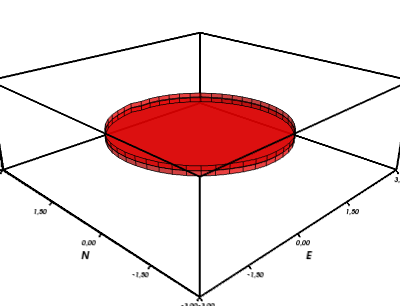
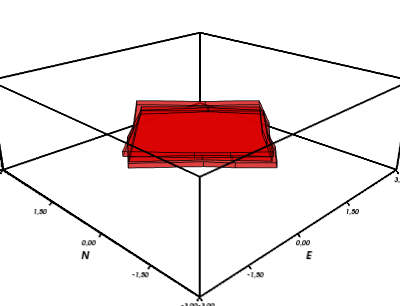
test for different number of prisms between foward modeling and inversion

Changed region(s): [[0.24, 0.2941, 0.75, 0.5882]]

diff --git a/code/mag_polyprism_functions.py b/code/mag_polyprism_functions.py
@@ -573,7 +573,7 @@ def Jacobian_tf(xp, yp, zp, m, M, L, deltax, deltay, deltar, inc, dec):
         G[:, aux + M] = derivative_tf_x0(xp, yp, zp, mv, M, deltax, inc, dec)
         G[:, aux + M + 1] = derivative_tf_y0(xp, yp, zp, mv, M, deltay, inc, dec)
         for j in range(M):
-            G[:, aux + j] = derivative_tf_radial(xp, yp, zp, mv, M, j, deltar, inc, dec)
+            G[:, aux + j] = derivative_tf_radial2(xp, yp, zp, mv, M, j, deltar, inc, dec)
             
     return G
 
@@ -1480,7 +1480,7 @@ def trans_inv_parameter2(mt, M, L, mmax, mmin):
     #    exp_sum   = exp_sum + nth_term
 
     #m = mmin + (mmax - mmin)/(1. + exp_sum)
-    m = mmin + (mmax - mmin)/(1. + np.exp(-mt))
+    m = mmin + (mmax - mmin)/(1. + np.exp(-mt)) - 1e-10
 
     return m
     
